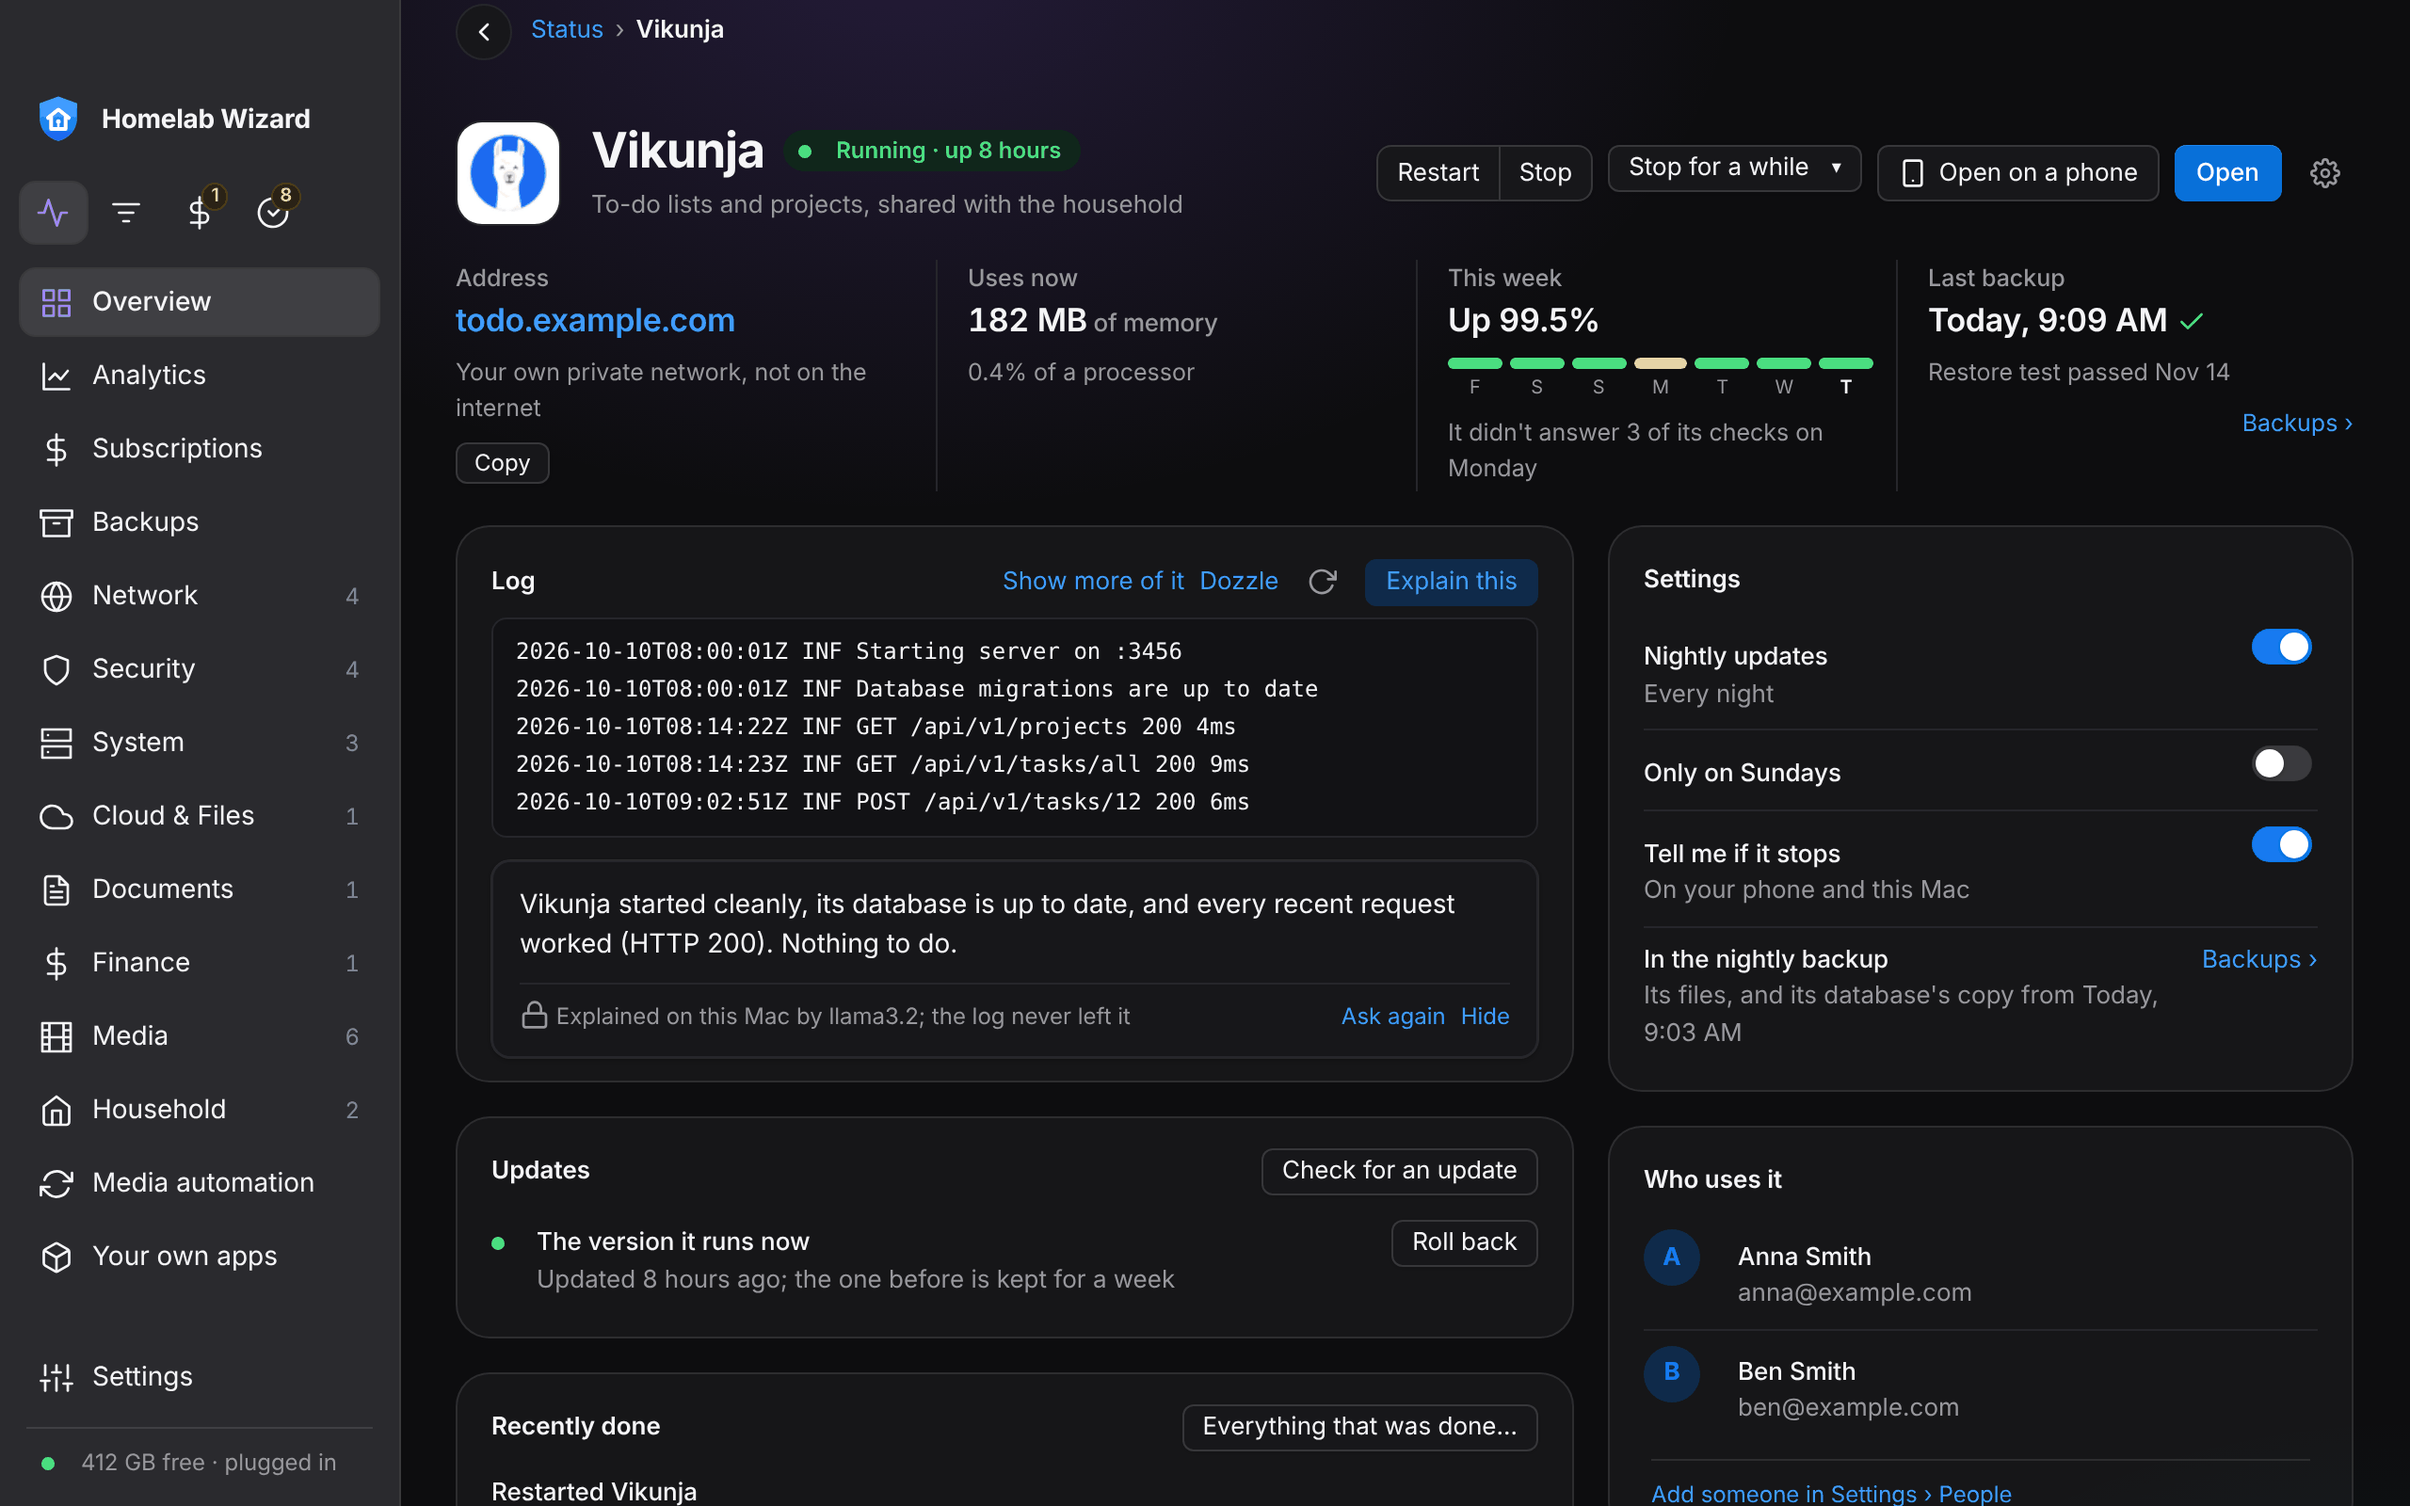
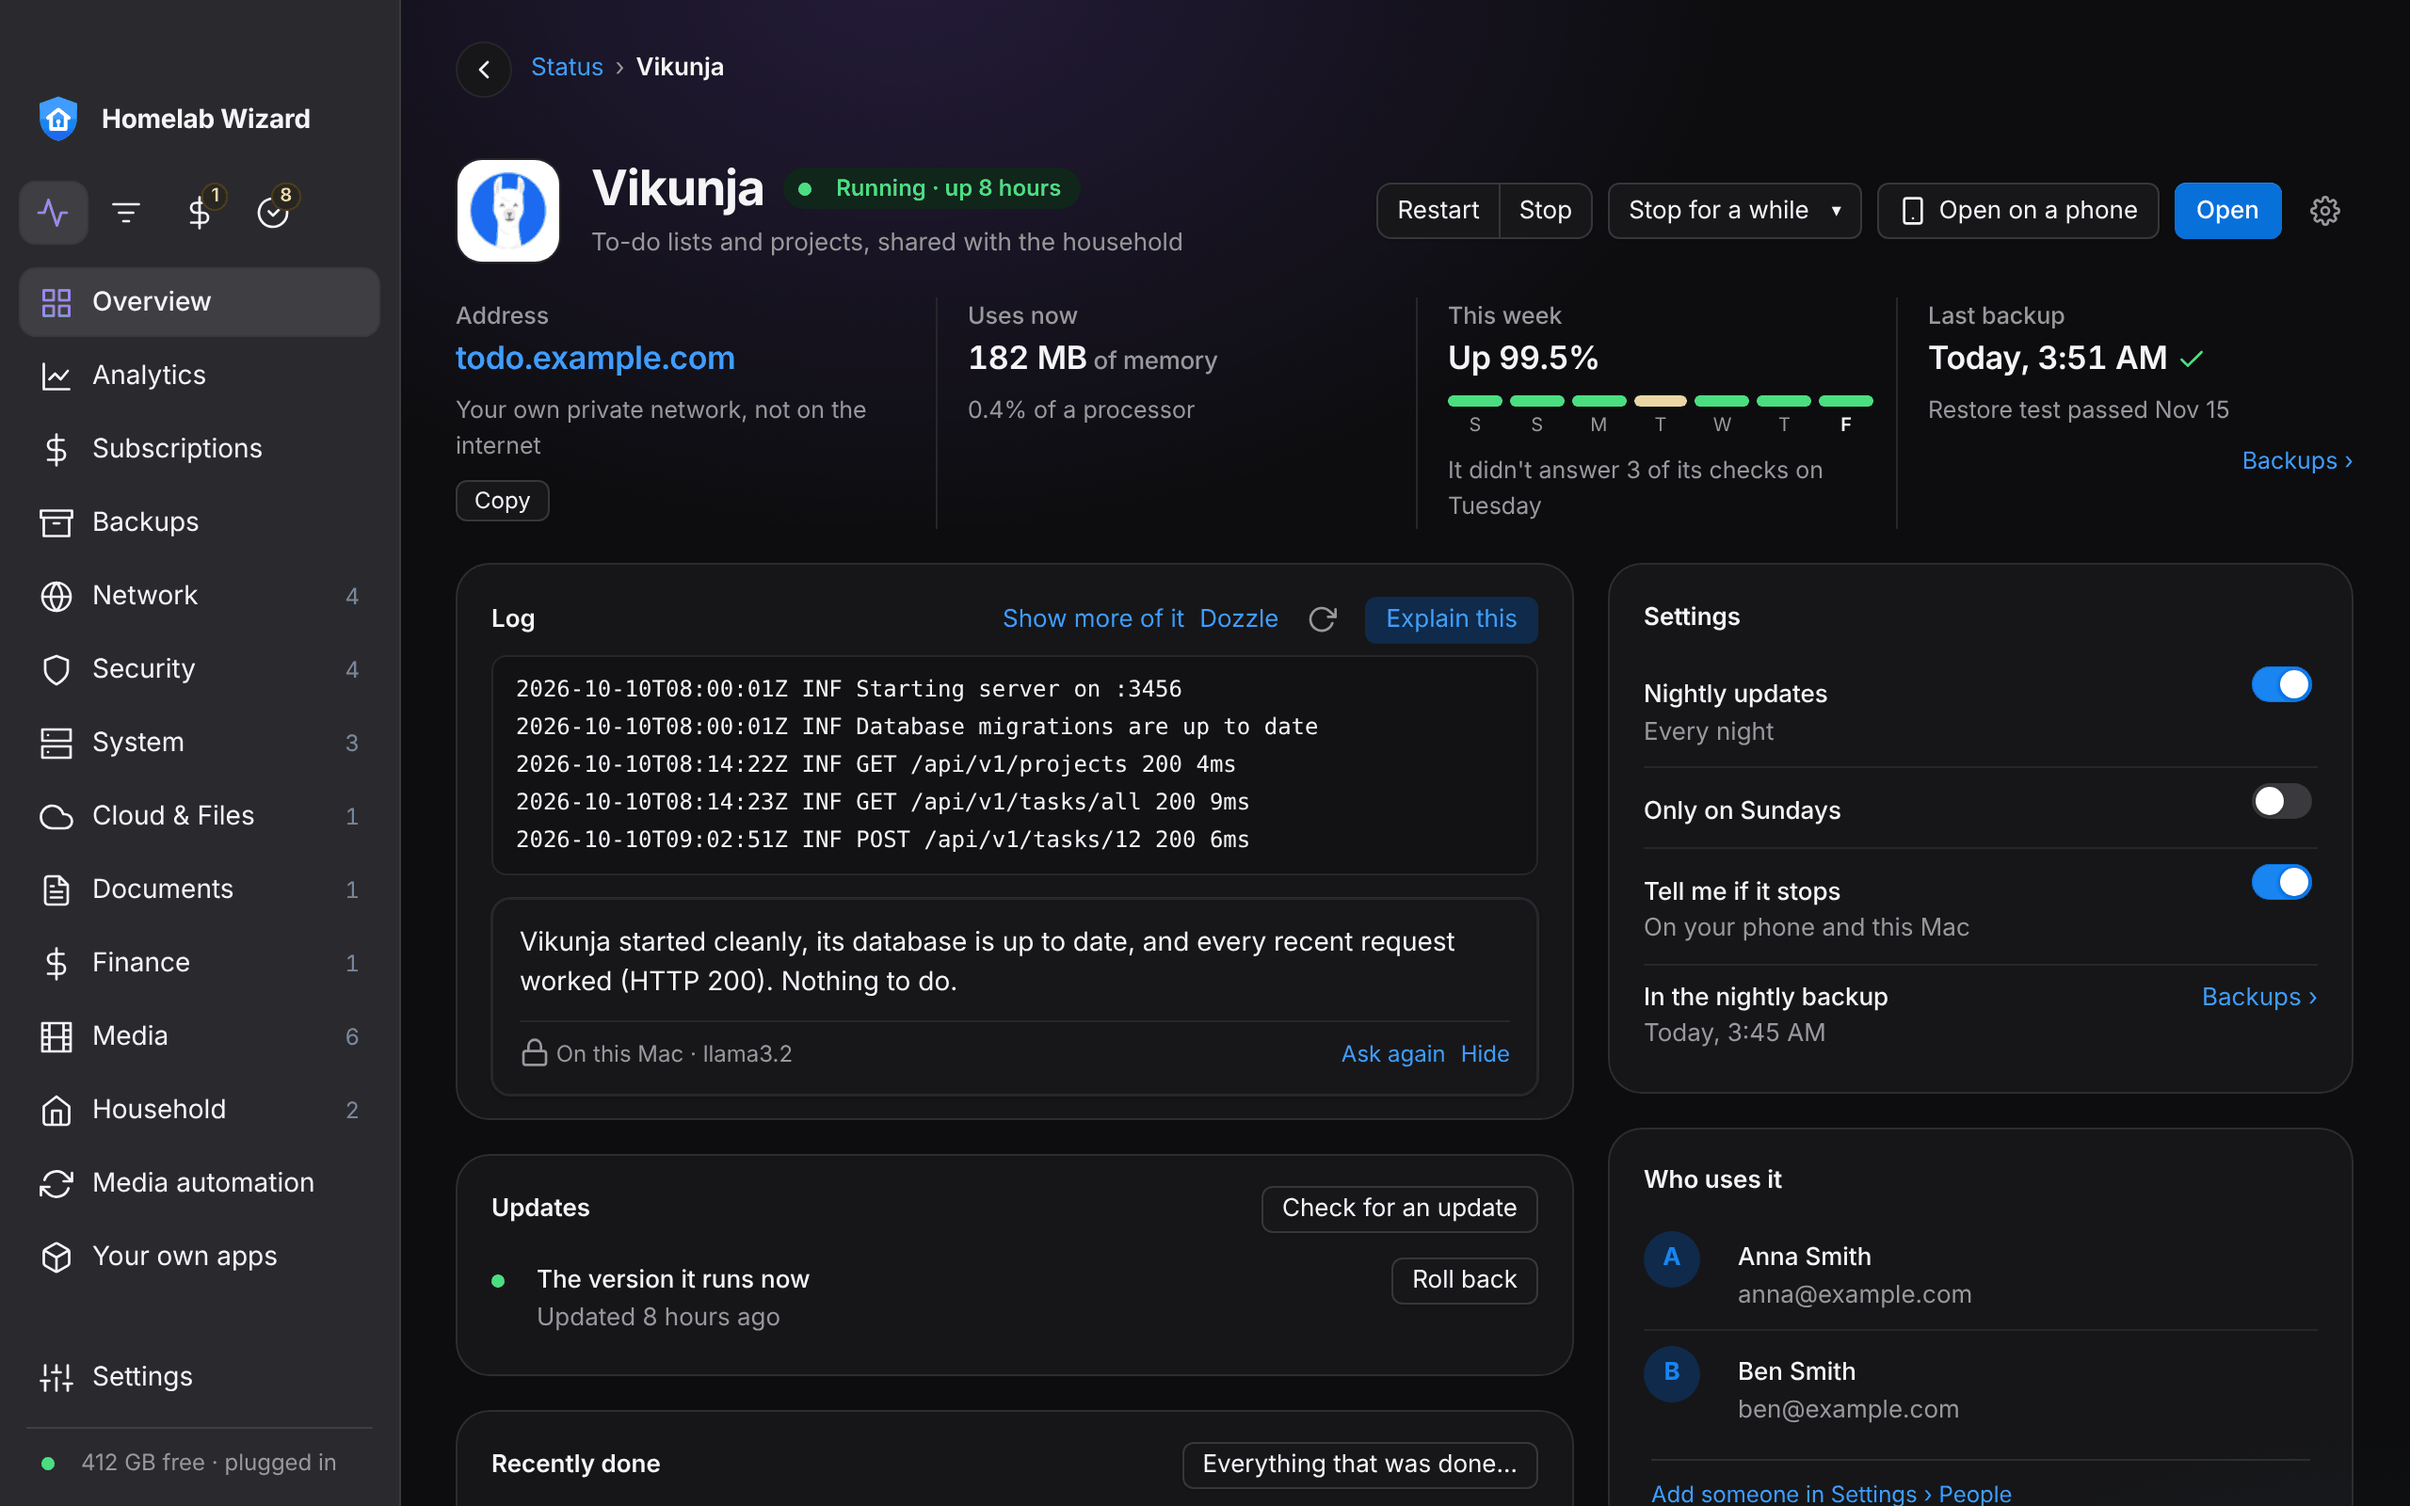
An app's page says less, as the iPhone's does (#945)
* An app's page says less, as the iPhone's does

Updates: "Updated 8 hours ago", without "the one before is kept for a
week"; "Its updates are held" without the sentence after it. In the
nightly backup: the time of its last copy, or "Outside the homelab".
An explanation of its log ends with the lock and "On this Mac ·
llama3.2". The explainer check now looks for the lock, the machine and
the model there.

Claude-Session: https://claude.ai/code/session_01MiSTxrm6MCnNDF7kXW7KV6

* App page pictures retaken with fewer words

Claude-Session: https://claude.ai/code/session_01MiSTxrm6MCnNDF7kXW7KV6

---------

diff --git a/web/dist/app.js b/web/dist/app.js
@@ -10193,11 +10193,10 @@
         /* @__PURE__ */ u3("div", { class: "row", children: [
           /* @__PURE__ */ u3("span", { class: "muted", children: [
             /* @__PURE__ */ u3(Icon, { name: "lock" }),
-            " Explained on ",
+            " On ",
             machine,
-            " by ",
-            explainer2.replace(/:latest$/, ""),
-            "; the log never left it"
+            " · ",
+            explainer2.replace(/:latest$/, "")
           ] }),
           /* @__PURE__ */ u3("span", { class: "actions", children: [
             /* @__PURE__ */ u3(ActionLink, { onClick: ask, children: "Ask again" }),
@@ -10384,13 +10383,13 @@
         {
           dot: "ok",
           title: "The version it runs now",
-          sub: `Updated ${ago(a3.updatedAt)}; the one before is kept for a week`,
+          sub: `Updated ${ago(a3.updatedAt)}`,
           end: /* @__PURE__ */ u3("button", { class: "small change", disabled: busy2, title: "Go back to the version it ran before, and hold its updates", onClick: () => on2.act("rollback"), children: "Roll back" })
         },
         "now"
       ));
     }
-    if (a3.held) rows.push(/* @__PURE__ */ u3(Row, { dot: "warn", title: "Its updates are held", sub: `After a rollback, the nightly update leaves it out; homelab updates release ${a3.id} puts it back` }, "held"));
+    if (a3.held) rows.push(/* @__PURE__ */ u3(Row, { dot: "warn", title: "Its updates are held" }, "held"));
     return /* @__PURE__ */ u3(Card, { kind: "alerts pagecard", id: "appUpdates", children: [
       /* @__PURE__ */ u3(CardHead, { title: "Updates", children: a3.state === "running" && /* @__PURE__ */ u3("button", { class: "small change", disabled: busy2, title: "Shows what it brings first: its newer releases' notes", onClick: on2.update, children: "Check for an update" }) }),
       rows.length ? /* @__PURE__ */ u3(Rows, { children: rows }) : /* @__PURE__ */ u3(Empty, { children: "No update since it last started." })
@@ -10516,7 +10515,7 @@
     const daysText = switching2.sundays || !days.length ? "Sundays" : weekdaysText(days);
     const ids = [a3.id, ...entry2?.dependsOn || []];
     const copy = o3?.copies?.find((c4) => ids.includes(c4.id) && !c4.volume && !never(c4.newest));
-    const kept6 = container ? copy ? `Its files, and its database's copy from ${when(copy.newest)}` : "Its files in the homelab folder, every night" : "It runs on its own, outside the homelab; its own app keeps its data";
+    const kept6 = container ? copy ? when(copy.newest) : void 0 : "Outside the homelab";
     return /* @__PURE__ */ u3(Card, { kind: "alerts pagecard", id: "appSettings", children: [
       /* @__PURE__ */ u3(CardHead, { title: "Settings", children: null }),
       /* @__PURE__ */ u3(Rows, { children: [

diff --git a/web/src/page/AppPage.tsx b/web/src/page/AppPage.tsx
@@ -249,7 +249,7 @@ function Log({ explainer, machine, dozzle, on }: { explainer: string; machine: s
           {answer && <p class="answer">{answer}</p>}
           {problem && <p class="muted">{problem}</p>}
           <div class="row">
-            <span class="muted"><Icon name="lock" /> Explained on {machine} by {explainer.replace(/:latest$/, '')}; the log never left it</span>
+            <span class="muted"><Icon name="lock" /> On {machine} · {explainer.replace(/:latest$/, '')}</span>
             <span class="actions"><ActionLink onClick={ask}>Ask again</ActionLink><ActionLink onClick={() => { setAnswer(''); setProblem(''); }}>Hide</ActionLink></span>
           </div>
         </div>
@@ -349,10 +349,10 @@ function Updates({ p }: { p: AppPageProps }) {
   const { a, busy, on } = p;
   const rows: ComponentChildren[] = [];
   if (a.updatedAt) {
-    rows.push(<Row key="now" dot="ok" title="The version it runs now" sub={`Updated ${ago(a.updatedAt)}; the one before is kept for a week`}
+    rows.push(<Row key="now" dot="ok" title="The version it runs now" sub={`Updated ${ago(a.updatedAt)}`}
       end={<button class="small change" disabled={busy} title="Go back to the version it ran before, and hold its updates" onClick={() => on.act('rollback')}>Roll back</button>} />);
   }
-  if (a.held) rows.push(<Row key="held" dot="warn" title="Its updates are held" sub={`After a rollback, the nightly update leaves it out; homelab updates release ${a.id} puts it back`} />);
+  if (a.held) rows.push(<Row key="held" dot="warn" title="Its updates are held" />);
   return (
     <Card kind="alerts pagecard" id="appUpdates">
       <CardHead title="Updates">
@@ -500,7 +500,7 @@ function Settings({ p }: { p: AppPageProps }) {
   // the database it uses), and its files in the homelab folder.
   const ids = [a.id, ...(entry?.dependsOn || [])];
   const copy = o?.copies?.find((c) => ids.includes(c.id) && !c.volume && !never(c.newest));
-  const kept = container ? (copy ? `Its files, and its database's copy from ${when(copy.newest)}` : 'Its files in the homelab folder, every night') : 'It runs on its own, outside the homelab; its own app keeps its data';
+  const kept = container ? (copy ? when(copy.newest) : undefined) : 'Outside the homelab';
   return (
     <Card kind="alerts pagecard" id="appSettings">
       <CardHead title="Settings">{null}</CardHead>

diff --git a/CHANGELOG.md b/CHANGELOG.md
@@ -326,6 +326,7 @@ Notes are grouped as **New**, **Improved**, and **Fixed**, one line each, in pla
 - **Bills on the Homelab app shows a pay period as the computer does:** on the iPhone and iPad, each pay period starts with whose paycheck it is, says what checking holds on payday once its own payments are out and what the period itself comes to, lists every account after it with what changed, and says under each bill how it's paid: its kind, on a card, from another account, or from someone else.
 - **The Homelab app's Transactions search finds what the computer's finds:** on the iPhone and iPad, search by what a charge came to (86.10 or 1,240.55), its day (Oct 28) or its account, as well as the payee, category, note or tag. Each word you type can be anywhere in the row, so *corner work* finds Corner Café tagged work.
 <!-- Everything else (the other lanes): add a line just below this one. -->
+- **An app's page says less, as on the iPhone:** *Updated 8 hours ago* without *the one before is kept for a week*; *Its updates are held* without the sentence after it; *In the nightly backup* gives the time of its last copy, or *Outside the homelab*; an explanation of its log ends with the lock and *On this Mac · llama3.2*.
 - **Backups' cards are cards:** *Last night*, *Restore test* and *Off-site* each have their padding, a gap between them and one height, on the computer and the web page. On a phone, each skipped app's name sits beside its logo instead of on a line of its own.
 - **Analytics' figures agree with the rest of Status:** each app's processor is a share of the whole machine, as the card's total is, so the busiest app reads *43%* beside *51% in use* instead of *171%*. Drives counts in 1024s like This Mac, the sidebar and the CLI, so the same drive no longer shows 442 GB free on one page and 412 GB on another.
 - **Subscriptions' headings line up:** *Replaced now* and *Could replace too* sit at the top of their cards at the same size as *Where it comes from*, without the empty band above them.
